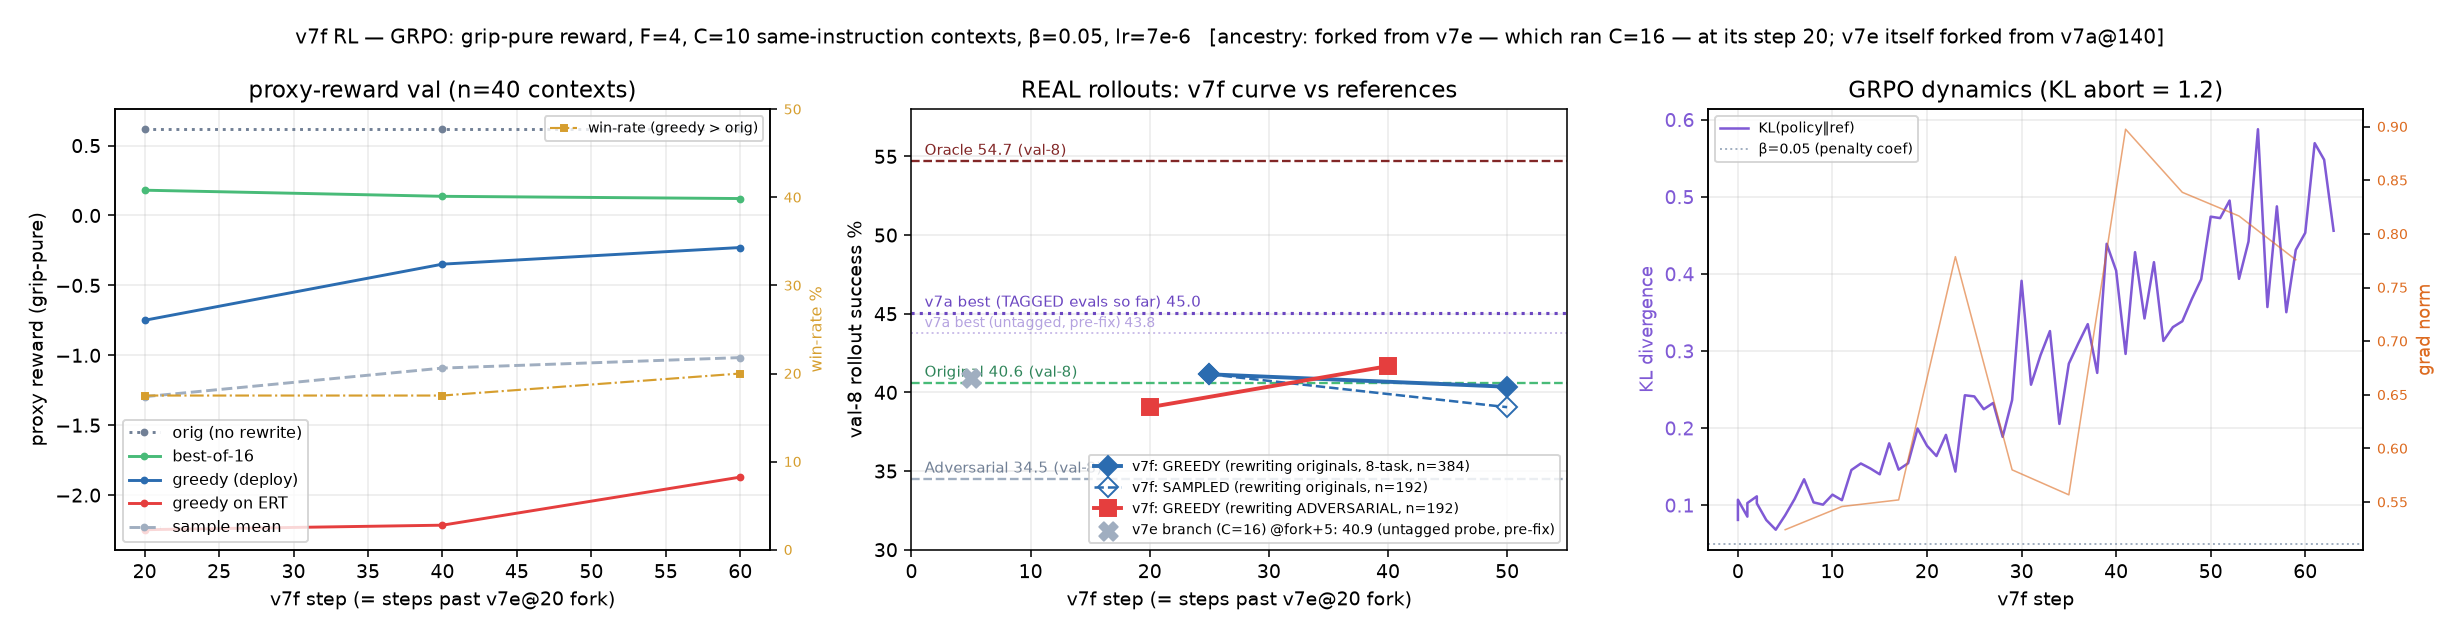
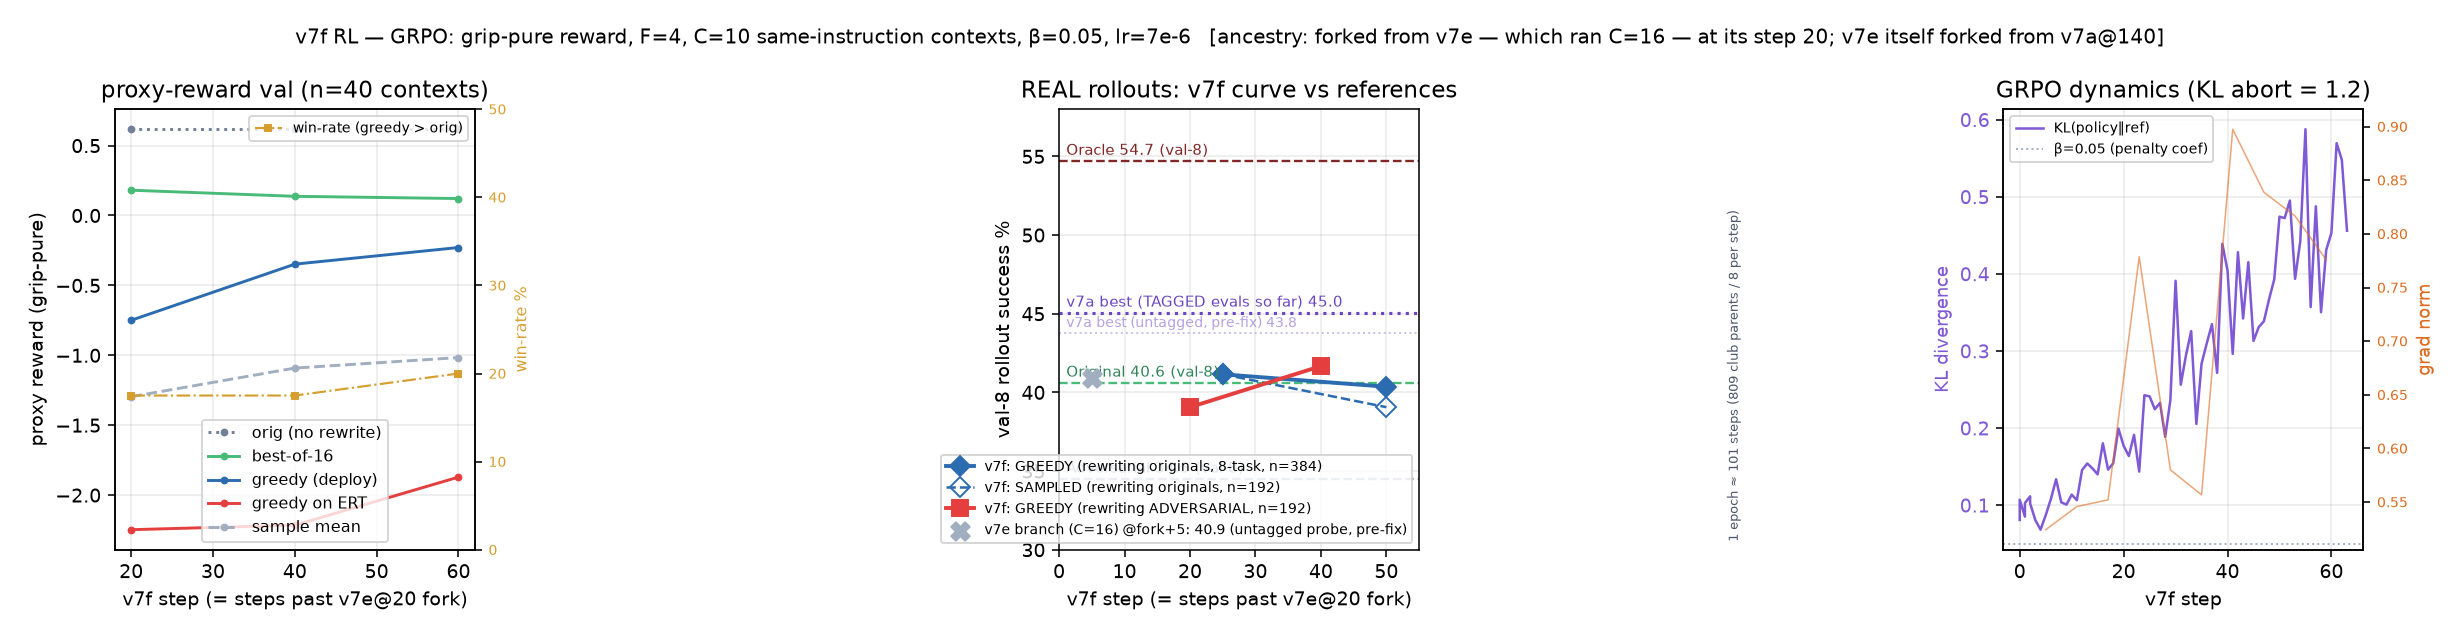
charts: epoch markers (v7a 250 steps/epoch, v7f ~101); adv-roll 2-rep param

diff --git a/scripts/make_v7_conditions_chart.py b/scripts/make_v7_conditions_chart.py
@@ -58,7 +58,10 @@ if rep_t:
 ax.plot([], [], marker="o", ls="none", markerfacecolor="#a0aec0", markeredgecolor="black",
         markeredgewidth=2, ms=10, label="black edge = DEEPENED eval (n=384, ±2.5)")
 
-ax.set_xlabel("v7a checkpoint step (run trained to 340)")
+ax.axvline(250, ls="-.", color="#4a5568", lw=1.0, alpha=0.6)
+ax.text(252, 31, "1 epoch (250 steps = 2,000 parent contexts / 8 per step)", fontsize=7,
+        color="#4a5568", rotation=90, va="bottom")
+ax.set_xlabel("v7a checkpoint step (run trained to 340 ≈ 1.36 epochs)")
 ax.set_ylabel("val-8 rollout success % (8 tasks × 24 layouts, greedy)")
 ax.set_ylim(30, 58)
 ax.set_xlim(-8, 348)

diff --git a/scripts/make_v7f_progress.py b/scripts/make_v7f_progress.py
@@ -105,6 +105,9 @@ if os.path.exists("results/analysis/v7f_adv_curve.jsonl"):
 # v7e's lone C=16 probe: its step 25 = fork+5 on this axis
 a2.scatter([5], [40.89], marker="X", s=90, color="#a0aec0", zorder=4,
            label="v7e branch (C=16) @fork+5: 40.9 (untagged probe, pre-fix)")
+a2.axvline(101, ls="-.", color="#4a5568", lw=1.0, alpha=0.6)
+a2.text(102, 30.5, "1 epoch ≈ 101 steps (809 club parents / 8 per step)", fontsize=6.5,
+        color="#4a5568", rotation=90, va="bottom")
 a2.set_xlabel("v7f step (= steps past v7e@20 fork)")
 a2.set_ylabel("val-8 rollout success %")
 a2.set_ylim(30, 58)
